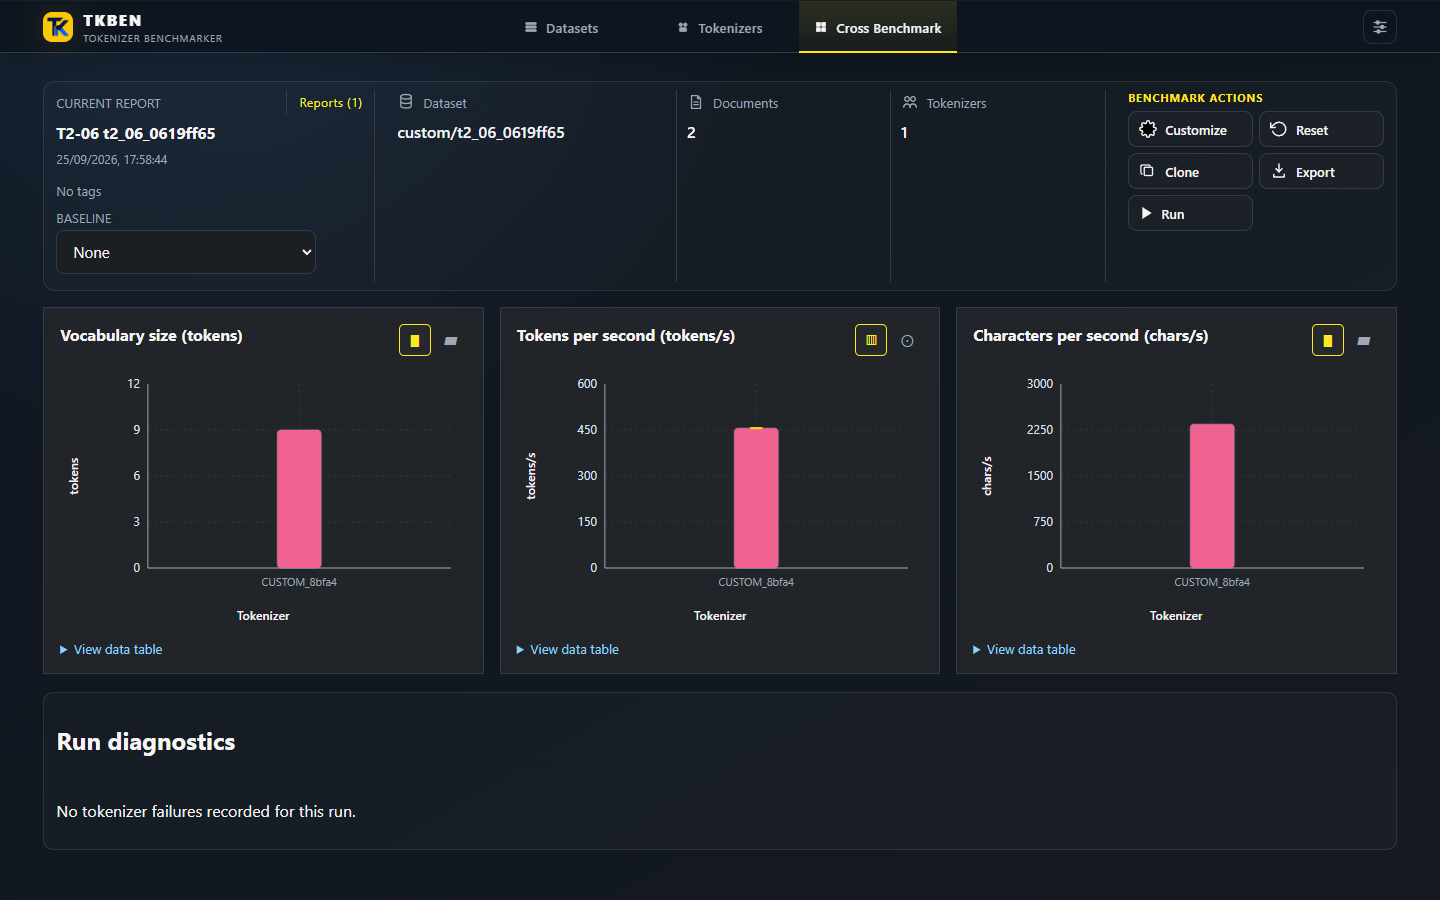
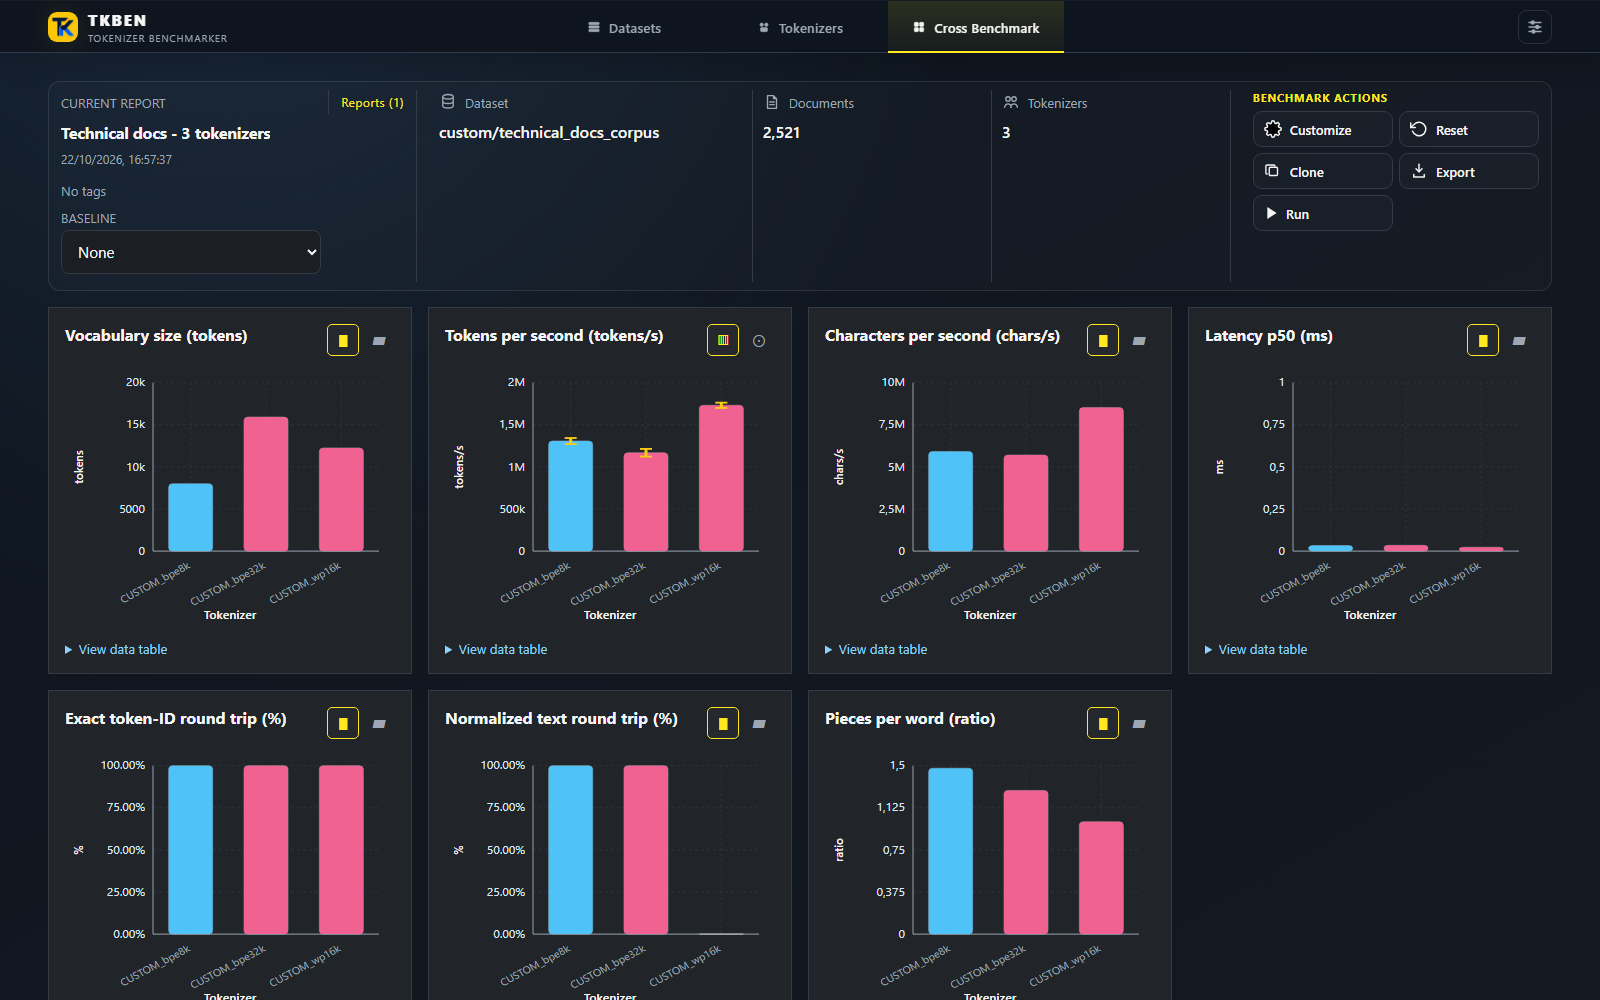
release: prepare v4.7.1 candidate
Fix clipped cross-benchmark x-axis labels, refresh README screenshots, and bump versions to 4.7.1 (backend 3.7.1, frontend 2.7.1).

diff --git a/app/client/angular/app/components/benchmark-metric-chart.component.html b/app/client/angular/app/components/benchmark-metric-chart.component.html
@@ -152,10 +152,10 @@
               <line [attr.x1]="pointX(index) - 6" [attr.x2]="pointX(index) + 6" [attr.y1]="pointY(item.high)" [attr.y2]="pointY(item.high)" stroke="#facc15" stroke-width="2" />
               <line [attr.x1]="pointX(index) - 6" [attr.x2]="pointX(index) + 6" [attr.y1]="pointY(item.low)" [attr.y2]="pointY(item.low)" stroke="#facc15" stroke-width="2" />
             }
-            <text [attr.x]="pointX(index)" [attr.y]="points().length === 1 ? 218 : 226" class="benchmark-axis-tick" [attr.text-anchor]="points().length === 1 ? 'middle' : 'end'" [attr.aria-label]="item.tokenizer" [attr.transform]="points().length === 1 ? null : 'rotate(-30 ' + pointX(index) + ' 226)'">{{ item.label }}</text>
+            <text [attr.x]="pointX(index)" y="218" class="benchmark-axis-tick" [attr.text-anchor]="points().length === 1 ? 'middle' : 'end'" [attr.aria-label]="item.tokenizer" [attr.transform]="points().length === 1 ? null : 'rotate(-30 ' + pointX(index) + ' 218)'">{{ item.label }}</text>
           }
         }
-        <text [attr.x]="chartWidth() / 2" y="252" class="benchmark-axis-label" text-anchor="middle">{{ visualization() === 'horizontal_bar' ? widget().unit : 'Tokenizer' }}</text>
+        <text [attr.x]="chartWidth() / 2" y="274" class="benchmark-axis-label" text-anchor="middle">{{ visualization() === 'horizontal_bar' ? widget().unit : 'Tokenizer' }}</text>
       </svg>
       <div class="benchmark-chart-legend" aria-label="Tokenizer legend">@for (item of points(); track item.tokenizer) { <span><i [style.background]="item.color"></i>{{ item.tokenizer }}</span> }</div>
     }

diff --git a/app/client/angular/app/components/benchmark-metric-chart.component.ts b/app/client/angular/app/components/benchmark-metric-chart.component.ts
@@ -100,7 +100,7 @@ export class BenchmarkMetricChartComponent implements AfterViewInit, OnDestroy {
   }
 
   protected pointViewBox(): string {
-    return `0 0 ${this.chartWidth()} 260`;
+    return `0 0 ${this.chartWidth()} 284`;
   }
 
   protected groupedViewBox(): string {

diff --git a/assets/docs/project_status_ledger.md b/assets/docs/project_status_ledger.md
@@ -125,6 +125,7 @@ recorded here rather than in a copied execution log.
 | V-20261022 | v4.7.0 release candidate smoke | T0-01, T0-02 (delta), T5-06 | PASS on `develop` after the version bump: backend compileall, Ruff, BasedPyright (0 errors/2,101 warnings), database initialization, and 489/489 unit tests passed; OpenAPI generates (37 paths) and a duplicate-operation-ID warning from the SPA routes was fixed by excluding them from the schema; frontend lint, 69/69 unit tests, and the production build passed. Direct Uvicorn served `/`, `/settings`, `/api/health`, `/api/settings`, and `/api/datasets/list` with HTTP 200 and returned 404 for unknown `/api` paths; the server was stopped and port 8000 freed. Consolidated the former `assets/QA` FastAPI static-hosting and PR #8 reports into the V-20261021/V-20261022 rows above; the launcher `-Launch` readiness and standard-console Ctrl+C (PR #8, draft, excluded from v4.7.0) remain unverified. Hosted CI pending. |
 | V-20261022 | v4.7.0 post-release full E2E revalidation (`afbf637`) | T0-01, T0-02 (delta), T1-01 through T3-05, T5-06 | PASS for the runnable gates; T0-02 stays PARTIAL. Launcher: `start_on_windows.ps1 -Launch` run three times from the app Terminal panel (an interactive console). The first run rebuilt a stale Angular output, then `/api/health`, `/`, `/settings`, `/api/settings` and `/api/datasets/list` returned 200 and unknown `/api` paths returned 404; warm relaunches reached health without a rebuild. Ctrl-C sent to the tab ended the launcher shell, freed port 5000, and left no TKBEN Python/Node process; the console transcript was not captured, so graceful-exit text and launcher exit code are unverified. The interactive occupied-port prompt was not exercised because no tool can type into the panel. Standard runner after installing the locked `--all-extras` environment and Playwright Chromium into `runtimes/cache/playwright`: Ruff clean, BasedPyright 0 errors/2,101 warnings, 533 passed with 13 opt-in skips, 69/69 frontend tests. Opt-in synthetic E2Es (`E2E_RUN_BENCHMARKS`, tokenizer report flow and UI lifecycle) ran against the production launcher origin on port 5000: 49 passed, 7 skipped (HF key, provider, restart-name opt-ins). Public Hugging Face discovery requires an active key (400 "No active Hugging Face access key"), so T4-01/T4-03 were not re-run (BLOCKED, no key). Defect found and fixed: the E2E suite left nine `custom/` datasets (`e2e_sample`, `e2e_xlsx_import_*`, `qa_row_*`) and the `CUSTOM_e2e_tiny_tokenizer` in the live default database; the new `app/tests/e2e/conftest.py` session fixture removes datasets and tokenizers created during the run, and a rerun left both catalogs empty. The leaked rows were deleted through the API; `settings/.env` hash unchanged. Managed-job restart reconciliation was not re-run live (unit/earlier evidence only). Hosted CI for this delta is pending. |
 | V-20261022 | Launcher lifecycle and restart-reconciliation follow-up | T0-02 (delta), T5-01 | PASS for managed-job reconciliation, PARTIAL for launcher shutdown. Live: a 24,000-document upload completed, a dataset analysis job was started, and the backend (the exact listener PID) was force-killed mid-job. The launcher, run in the app Terminal panel under `Start-Transcript`, reported `FastAPI exited with code -1 after startup`, logged the application log path, returned exit code 1, and left no TKBEN process or port 5000 listener. After relaunch, the interrupted job was `failed` with "Job interrupted because the application restarted while it was running." at its original ID; the completed dataset was retained and then deleted. The Ctrl-C graceful-exit text and exit code remain unverified: the panel's stop action terminates the wrapper before it can log them, although the backend stopped and released the port each time. A `CTRL_BREAK_EVENT` to a launcher in its own process group (not equivalent to Ctrl+C) made the launcher exit 2 and orphaned the exact TKBEN backend listener; `start_on_windows.ps1 -KillAll` then stopped that process tree and freed the port. Injecting console input or Ctrl+C events into a separate console was declined by the permission system, so the interactive occupied-port prompt is NOT TESTED. Hosted CI for these commits has not been run because nothing was pushed. |
+| V-20261022 | v4.7.1 patch release smoke and screenshot refresh | T0-01, T0-02 (delta), T5-06 | PASS on `develop` after the version bump. Delta since v4.7.0 is the E2E cleanup fixture plus the chart-label fix below. Ruff clean, 489/489 backend unit tests (run with `PYTHONPATH=app`), frontend lint, 69/69 unit tests, and the production build passed. `start_on_windows.ps1 -Launch` (PowerShell 5.1) reached `/api/health` 200 and served `/`, `/settings`, `/api/datasets/list` and `/api/tokenizers/list` with 200. Live workload: a 2,521-paragraph technical-docs CSV upload, full dataset analysis, three tokenizer reports, and a 3-tokenizer benchmark (custom BPE 8k/32k and WordPiece 16k trained locally with `tokenizers`) all completed. Defect found and fixed: the cross-benchmark bar chart rotated its x-axis tokenizer labels past the SVG bottom edge, so they were clipped and overlapped the axis title; the viewBox height and axis title offset were adjusted and verified visually. The README screenshots were retaken at 1600 px width from that workload and visually inspected. The seeded data was deleted afterwards and the launcher stopped (port 5000 free). Standard-console Ctrl+C, the interactive occupied-port prompt, and Hugging Face-gated checks are unchanged validation debt. |
 
 ### Reconciled status transitions
 

diff --git a/assets/docs/runtime/release.md b/assets/docs/runtime/release.md
@@ -1,5 +1,5 @@
 # Release Procedure
-Last updated: 2026-10-21
+Last updated: 2026-10-22
 
 ## Release model
 
@@ -10,19 +10,17 @@ add packaging as part of a source release.
 The public release version and component versions use the existing repository
 convention:
 
-| Surface | `v3.9.0` | `v4.0.0` | `v4.1.0` | `v4.2.0` | `v4.3.0` | `v4.4.0` | `v4.5.0` | `v4.5.1` | `v4.6.0` | `v4.6.1` | `v4.7.0` public |
+| Surface | `v3.9.0` | `v4.0.0` | `v4.1.0` | `v4.2.0` | `v4.3.0` | `v4.4.0` | `v4.5.0` | `v4.5.1` | `v4.6.0` | `v4.6.1` | `v4.7.0` | `v4.7.1` |
 | --- | ---: | ---: | ---: | ---: | ---: | ---: | ---: | ---: | ---: | ---: | ---: |
-| Public Git tag and GitHub Release | `3.9.0` | `4.0.0` | `4.1.0` | `4.2.0` | `4.3.0` | `4.4.0` | `4.5.0` | `4.5.1` | `4.6.0` | `4.6.1` | `4.7.0` |
-| Backend package (`app/server/pyproject.toml`) | `2.4.0` | `3.0.0` | `3.1.0` | `3.2.0` | `3.3.0` | `3.4.0` | `3.5.0` | `3.5.1` | `3.6.0` | `3.6.1` | `3.7.0` |
-| Frontend package (`app/client/package.json`) | `1.4.0` | `2.0.0` | `2.1.0` | `2.2.0` | `2.3.0` | `2.4.0` | `2.5.0` | `2.5.1` | `2.6.0` | `2.6.1` | `2.7.0` |
+| Public Git tag and GitHub Release | `3.9.0` | `4.0.0` | `4.1.0` | `4.2.0` | `4.3.0` | `4.4.0` | `4.5.0` | `4.5.1` | `4.6.0` | `4.6.1` | `4.7.0` | `4.7.1` |
+| Backend package (`app/server/pyproject.toml`) | `2.4.0` | `3.0.0` | `3.1.0` | `3.2.0` | `3.3.0` | `3.4.0` | `3.5.0` | `3.5.1` | `3.6.0` | `3.6.1` | `3.7.0` | `3.7.1` |
+| Frontend package (`app/client/package.json`) | `1.4.0` | `2.0.0` | `2.1.0` | `2.2.0` | `2.3.0` | `2.4.0` | `2.5.0` | `2.5.1` | `2.6.0` | `2.6.1` | `2.7.0` | `2.7.1` |
 
-The latest published release is `v4.6.1` (backend `3.6.1`, frontend `2.6.1`);
+The latest published release is `v4.7.1` (backend `3.7.1`, frontend `2.7.1`);
+its publication record is in the [project status ledger](../project_status_ledger.md#release-gate).
 `v4.7.0` (backend `3.7.0`, frontend `2.7.0`) was published on 2026-10-22 from
 annotated tag `v4.7.0` on `main` commit `7dc3d7e372bcc60cb7a75b7d12c07a4d51d42840`
 (re-published with PR #8 merged; hosted CI passed both jobs; source-only, no binary assets).
-Its annotated tag points to validated `main` commit
-`d198f203525bb57603060db7283f7d01432269b3`; publication and validation evidence
-are recorded in the [project status ledger](../project_status_ledger.md#release-gate).
 
 ## v4.6.0 release notes
 
@@ -40,6 +38,24 @@ The v4.6.0 delta is based on verified repository changes after `v4.5.1`:
 API version `1.2.0`, benchmark schema version `3`, and report version `5`
 remain unchanged. The public release status and final commit are recorded in
 the [project status ledger](../project_status_ledger.md#release-gate).
+
+## v4.7.1 patch release notes
+
+The v4.7.1 release increments the public release, backend, and frontend patch
+versions to `4.7.1`, `3.7.1`, and `2.7.1`. The verified changes since v4.7.0
+include:
+
+- fix the cross-benchmark bar-chart x-axis labels, which were clipped by the
+  chart edge and overlapped the "Tokenizer" axis title when several
+  tokenizers were compared;
+- make the E2E suite remove the datasets and tokenizers it creates in the live
+  database; and
+- refresh the README screenshots (dataset dashboard, tokenizer report,
+  cross-benchmark comparison) with a populated, realistic workload.
+
+API version `1.2.0`, benchmark schema version `3`, and report version `5`
+remain unchanged. Validation evidence is recorded as `V-20261022` (v4.7.1
+patch smoke).
 
 ## v4.7.0 release notes
 

diff --git a/assets/docs/project_index.md b/assets/docs/project_index.md
@@ -14,10 +14,9 @@ fields; incompatible historical rows are rejected rather than silently
 adapted. Managed job lifecycle metadata is durable, with interrupted work
 reconciled as failed after restart rather than automatically resumed.
 
-The latest published release is `v4.7.0` with backend package `3.7.0` and
-frontend package `2.7.0`. Its source-only GitHub release was published from
-annotated tag `v4.7.0` on `main` commit
-`7dc3d7e372bcc60cb7a75b7d12c07a4d51d42840`; `main` and `develop` are
+The latest published release is `v4.7.1` with backend package `3.7.1` and
+frontend package `2.7.1`. Its source-only GitHub release was published from
+annotated tag `v4.7.1` on `main` (commit recorded in the status ledger); `main` and `develop` are
 synchronized after the publication record update. Configuration ownership is
 canonical: `settings/.env` and the process environment own
 bootstrap-only values,
